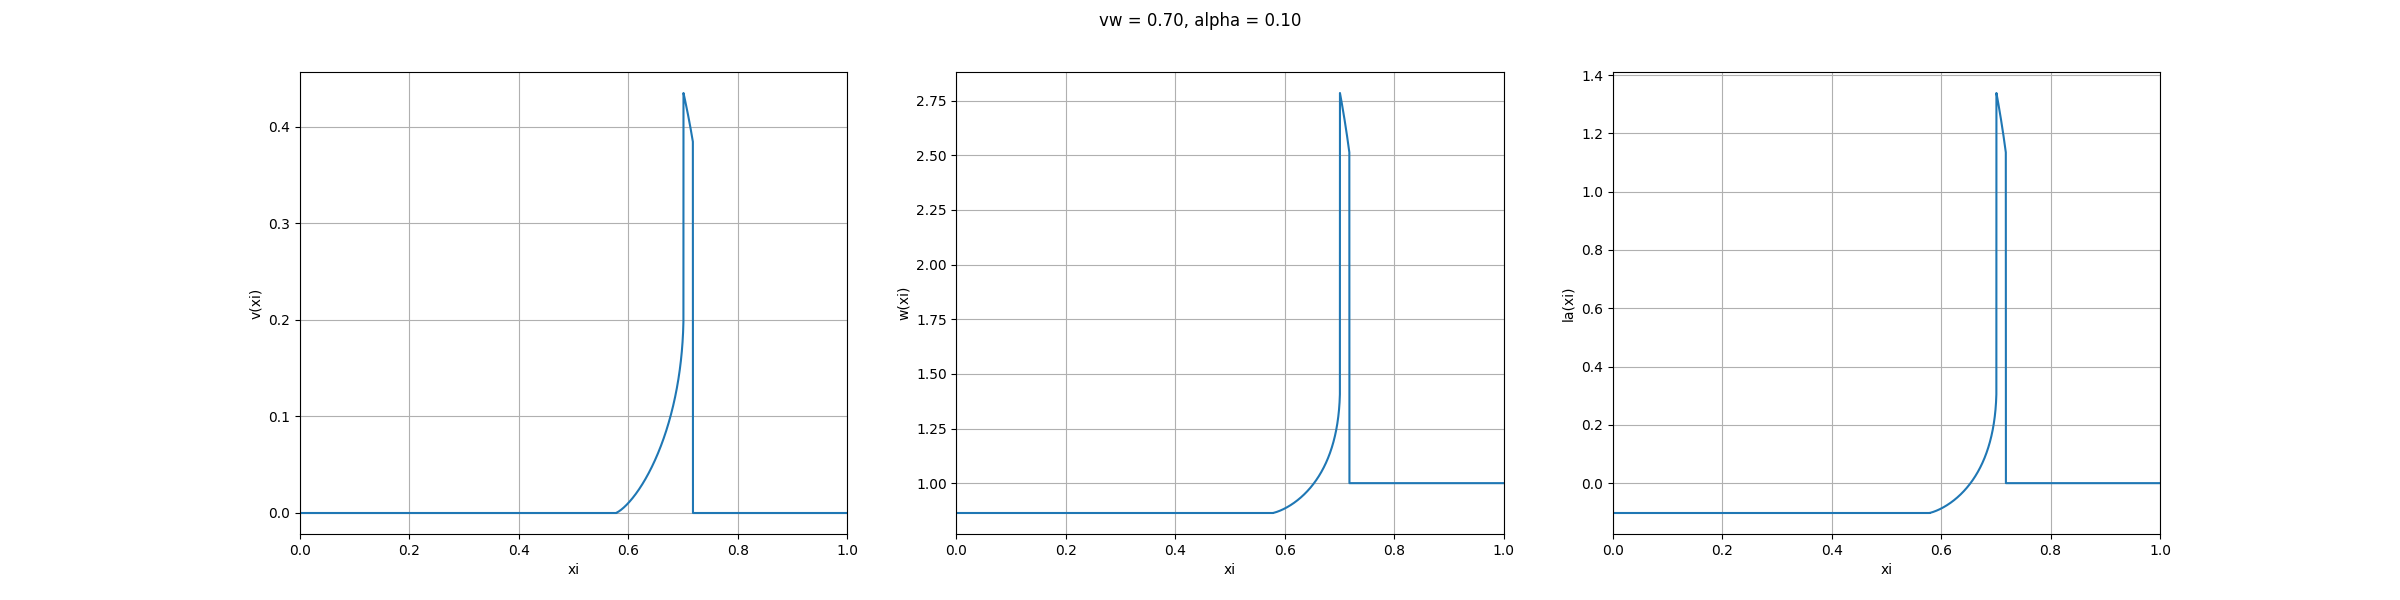
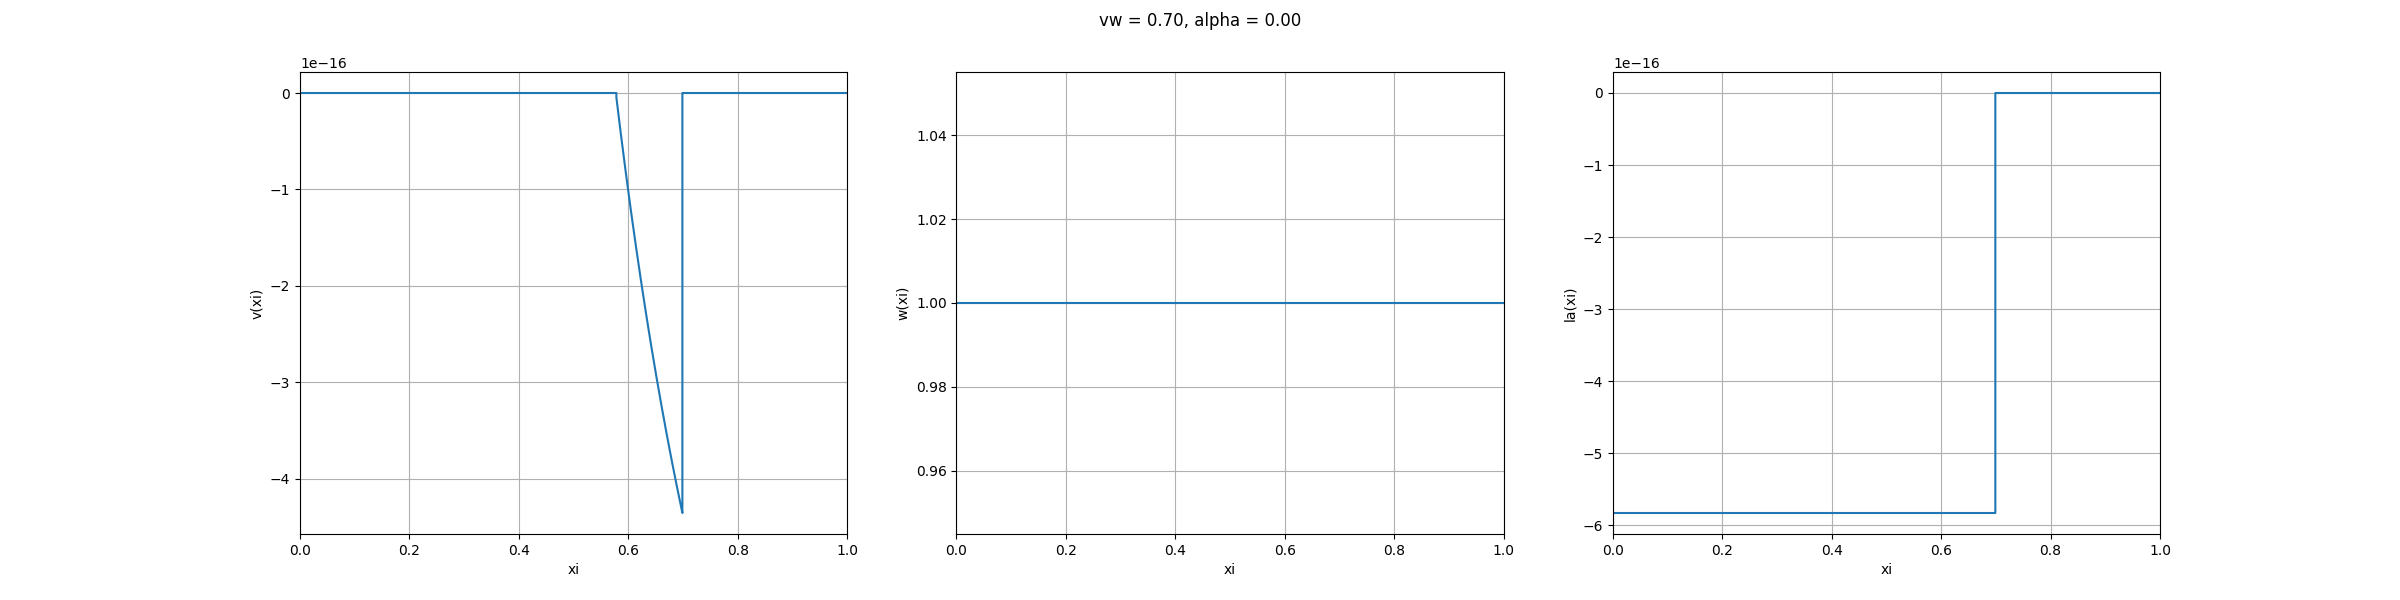
deflag/hybrid now fully implemented

diff --git a/src/profile.cpp b/src/profile.cpp
@@ -22,6 +22,8 @@ TO DO:
 - fix calc of w profile in generate_streamplot_data()
 - modify plot() so you can individually plot v,w,la too (i.e. separate plot functions)
 - write summary of detonation/deflag/hybrid at top of ctor
+- change from using y0 to using FluidState class!
+- update xi_start and xi_end so they have same spacing as xi_vals -> makes it easier for integrating v(xi) i think!
 */
 
 namespace Hydrodynamics { // calculate bubble profile
@@ -130,6 +132,10 @@ FluidProfile::FluidProfile(const PhaseTransition::PTParams& params)
 
         // define hydrodynamic mode
         mode_ = get_mode(vw_, cmsq_, alN_);
+
+        if (mode_ < 0 || mode_ > 2) {
+            throw std::invalid_argument("Hydrodynamic mode must be: 0 (deflagration), 1 (hybrid) or 2 (detonation)");
+        }
 
         // calculate fluid profiles v(xi), w(xi), la(xi)     
         const size_t n = 1000;
@@ -299,6 +305,23 @@ double FluidProfile::xi_shock(double v1UF) const {
     return fac + std::sqrt(fac * fac + cpsq_);
 }
 
+// not finished yet
+std::vector<double> FluidProfile::get_alp_minmax(double vw, double cpsq, double cmsq) const {
+    // same as get_alp_wall but using vp, vm
+    const auto vp_min = 0.0;
+    const auto vp_max = std::min(cpsq / vw, vw); // not sure why??
+    const auto vm = (mode_ == 0) ? vw : std::sqrt(cpsq); // |vm|=vw (deflag), cp (hybrid)
+
+    auto get_alp = [] (double vp, double vm) {
+        return gammaSq(vp) * (vp * vp - vp * vm - vp / (3.0 * vm) + 1.0 / 3.0);
+    };
+    
+    const auto al_max = get_alp(vp_min, vm);
+    const auto al_min = get_alp(vp_max, vm);
+
+    return {al_min, al_max};
+}
+
 double FluidProfile::get_alp_wall(double vpUF, double vw) const {
     // alpha_+ from wall condition
     return gammaSq(vpUF) * vpUF * (2.0 * vw * vpUF + 1.0 - 3.0 * vw * vw) / (3.0 * vw);
@@ -387,21 +410,17 @@ std::vector<state_type> FluidProfile::solve_profile(int n) {
     };
 
     const auto dlt = 0.001; // wall and shocks are discontinuities so start integration just before them
-    double xi0, xif, y0;
     std::vector<state_type> y_sol_tmp;
     state_type xi_sol_tmp, v_sol_tmp, w_sol_tmp;
 
     const double w_start_val = 1.0; // w+/wN (det), w2/wN (deflag/hybrid)
     double w_end_val;
 
-    // if (mode_ == 0) {
     if (mode_ < 2) { // deflagration & hybrid
         // check alpha condition for shock
-        const auto almax = 100.; // placeholder
-        if (alN_ > almax) throw std::invalid_argument("alpha too large for shock");
-
-        const auto almin = 0.; // placeholder
-        if (alN_ < almin) throw std::invalid_argument("alpha too small for shock");
+        const auto alp_minmax = get_alp_minmax(vw_, cpsq_, cmsq_);
+        if (alN_ <= alp_minmax[0]) throw std::invalid_argument("alpha too small for shock");
+        if (alN_ >= alp_minmax[1]) throw std::invalid_argument("alpha too large for shock");
 
         // hybrid and deflagration ICs the same for xi_w < xi < xi_sh
         xif_ = vw_ + dlt;
@@ -416,7 +435,6 @@ std::vector<state_type> FluidProfile::solve_profile(int n) {
         const double v1UF_max = 0.9;
 
         const double v1UF = root_finder(residual, v1UF_min, v1UF_max);
-        // const double v1UF = 0.06;
         y0_.push_back(v1UF);
         /*****************************************************************************/
 
@@ -427,7 +445,6 @@ std::vector<state_type> FluidProfile::solve_profile(int n) {
         y0_.push_back(w1wN);
 
         // solver
-        // const int nn = (mode_ == 1) ? n/2 : n;
         const auto sol = rk4_solver(dydxi, xi0_, xif_, y0_, n);
         xi_sol_tmp = sol.first;
         y_sol_tmp = sol.second;
@@ -438,33 +455,34 @@ std::vector<state_type> FluidProfile::solve_profile(int n) {
             w_sol_tmp.push_back(y_sol_tmp[i][1]);
         }
 
-        // fix end-value for enthalpy
-        auto vpUF = v_sol_tmp.back();
-        auto alp = get_alp_wall(vpUF, vw_);
-        auto vm = -vw_;
-        auto vp = calc_vp(vm, alp);
-        auto wpwN = w_sol_tmp.back(); // w(xi_w + dlt) = w+/wN
-        auto wmwN = calc_wm(wpwN, vp, vm); // from matching condition at wall
+        if (mode_ == 0) {
+            // fix end-value for enthalpy
+            const auto vpUF = v_sol_tmp.back();
+            const auto alp = get_alp_wall(vpUF, vw_);
+            const auto vm = -vw_;
+            const auto vp = calc_vp(vm, alp);
+            const auto wpwN = w_sol_tmp.back(); // w(xi_w + dlt) = w+/wN
+            const auto wmwN = calc_wm(wpwN, vp, vm); // from matching condition at wall
 
-        w_end_val = wmwN; // enthalpy just behind wall
+            w_end_val = wmwN; // enthalpy just behind wall
 
-        if (mode_ == 1) { // hybrid
+        } else { // hybrid
             // initial conditions for rarefaction wave
             // const auto xi0_rf = vw_ - dlt;
             const auto xi0_rf = vw_ + dlt;
             const auto xif_rf = std::sqrt(cmsq_) + dlt;
 
-            std::vector<double> y0_rf(2);
+            std::vector<double> y0_rf;
 
-            vm = -std::sqrt(cmsq_);
-            auto vmUF = mu(vw_, abs(vm));
-            y0_rf[0] = vmUF;
+            const auto vm = -std::sqrt(cmsq_);
+            const auto vmUF = mu(vw_, abs(vm));
+            y0_rf.push_back(vmUF);
 
-            vpUF = v_sol_tmp.back();
-            vp = mu(vw_, abs(vpUF));
-            wpwN = w_sol_tmp.back();
-            wmwN = calc_wm(wpwN, vp, vm);
-            y0_rf[1] = wmwN;
+            const auto vpUF = v_sol_tmp.back();
+            const auto vp = mu(vw_, abs(vpUF));
+            const auto wpwN = w_sol_tmp.back();
+            const auto wmwN = calc_wm(wpwN, vp, vm);
+            y0_rf.push_back(wmwN);
 
             const auto [xi_sol_rf_tmp, y_sol_rf_tmp] = rk4_solver(dydxi, xi0_rf, xif_rf, y0_rf, n);
 

diff --git a/src/profile.hpp b/src/profile.hpp
@@ -109,6 +109,7 @@ class FluidProfile {
     double calc_w1wN(double xi_sh) const;
 
     double xi_shock(double v1UF) const; // position of shock front
+    std::vector<double> get_alp_minmax(double vw, double cpsq, double cmsq) const;
     double get_alp_wall(double vpUF, double vw) const;
     double get_alp_shock(double vpUF, double v1UF, double alphaN) const;
     double v1UF_residual_func(double v1UF, const deriv_func& dydxi);

diff --git a/src/main.cpp b/src/main.cpp
@@ -43,7 +43,7 @@ int main() {
     /****************************/
 
     const auto vw = 0.7;
-    const auto alpha = 0.1;
+    const auto alpha = 0;
     const auto beta = PhaseTransition::dflt_PTParams::beta;
     const auto dtau = PhaseTransition::dflt_PTParams::dtau;
     const auto wN = PhaseTransition::dflt_PTParams::wN;
